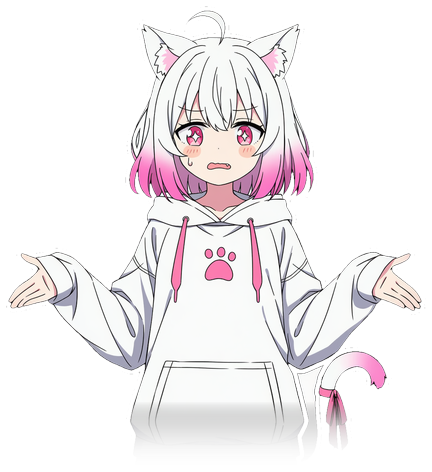
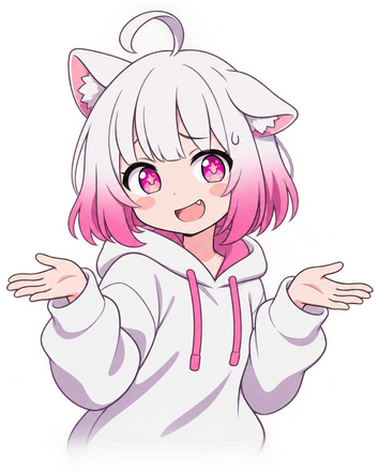
feat(mascot): 新增 sleep/shrug/thumbs/lookup 动图并优化空状态与识别工具栏布局

diff --git a/src/renderer/src/features/reverse/ReverseView.vue b/src/renderer/src/features/reverse/ReverseView.vue
@@ -516,6 +516,13 @@ async function source(url: string) {
       aria-label="参考图与识别结果"
     >
       <section class="reverse-input">
+        <input
+          ref="picker"
+          type="file"
+          accept="image/png,image/jpeg,image/webp"
+          hidden
+          @change="picked"
+        />
         <div class="reverse-panel-head">
           <span>参考图</span
           ><span
@@ -591,26 +598,9 @@ async function source(url: string) {
         class="reverse-adjustments"
       >
         <div
-          v-show="stage === 'recognition'"
+          v-if="image || running || actionBusy || modelOperation || recognitionMessage"
           class="reverse-toolbar"
         >
-          <input
-            ref="picker"
-            type="file"
-            accept="image/png,image/jpeg,image/webp"
-            hidden
-            @change="picked"
-          />
-          <button
-            class="btn small"
-            :disabled="busy"
-            @click="picker?.click()"
-          >
-            <Icon
-              name="image"
-              :size="15"
-            />{{ image ? '更换图片' : '选择图片' }}
-          </button>
           <button
             v-if="image"
             class="btn small primary reverse-run"
@@ -636,22 +626,6 @@ async function source(url: string) {
             role="status"
             >{{ recognitionMessage }}</span
           >
-          <button
-            class="btn small ghost reverse-model-toggle"
-            :disabled="trialsState.running"
-            aria-label="模型管理"
-            :title="selectedReady ? '本地模型已就绪' : '管理本地模型'"
-            @click="modelsOpen = true"
-          >
-            <span
-              class="model-dot"
-              :class="{ ready: selectedReady }"
-            ></span
-            >模型<Icon
-              name="sliders"
-              :size="14"
-            />
-          </button>
         </div>
 
         <div
@@ -674,6 +648,22 @@ async function source(url: string) {
               :disabled="busy || (selection.length === 1 && selection.includes(option[0]))"
             />{{ option[1] }}
           </label>
+          <button
+            class="btn small ghost reverse-model-toggle"
+            :disabled="trialsState.running"
+            aria-label="模型管理"
+            :title="selectedReady ? '本地模型已就绪' : '管理本地模型'"
+            @click="modelsOpen = true"
+          >
+            <span
+              class="model-dot"
+              :class="{ ready: selectedReady }"
+            ></span
+            >模型<Icon
+              name="sliders"
+              :size="14"
+            />
+          </button>
         </div>
         <div
           v-if="stage === 'recognition' && status && !selectedReady && !modelOperation"
@@ -745,7 +735,7 @@ async function source(url: string) {
         >
           <Mascot
             mood="search"
-            :motion="running ? 'loop' : 'once'"
+            motion="loop"
             :size="running ? 150 : 136"
           />
           <strong>{{ running ? '正在识别参考图…' : '等待识别' }}</strong>

diff --git a/src/renderer/src/shared/ui/Mascot.vue b/src/renderer/src/shared/ui/Mascot.vue
@@ -21,10 +21,15 @@ import ok from '../../assets/mascot/ok.png'
 import check from '../../assets/mascot/check.png'
 import crystal from '../../assets/mascot/crystal.png'
 import ready from '../../assets/mascot/ready.png'
+import lookup from '../../assets/mascot/lookup.png'
 import readyMotion from '../../assets/mascot/motion/ready.webp'
 import readingMotion from '../../assets/mascot/motion/reading.webp'
 import searchMotion from '../../assets/mascot/motion/search.webp'
 import paintMotion from '../../assets/mascot/motion/paint.webp'
+import sleepMotion from '../../assets/mascot/motion/sleep.webp'
+import shrugMotion from '../../assets/mascot/motion/shrug.webp'
+import thumbsMotion from '../../assets/mascot/motion/thumbs.webp'
+import lookupMotion from '../../assets/mascot/motion/lookup.webp'
 
 const SRC = {
   idle,
@@ -48,6 +53,7 @@ const SRC = {
   check,
   crystal,
   ready,
+  lookup,
 }
 
 /**
@@ -59,6 +65,10 @@ const MOTION: Partial<Record<keyof typeof SRC, { src: string; durationMs: number
   reading: { src: readingMotion, durationMs: 5082 },
   search: { src: searchMotion, durationMs: 5082 },
   paint: { src: paintMotion, durationMs: 4914 },
+  sleep: { src: sleepMotion, durationMs: 5042 },
+  shrug: { src: shrugMotion, durationMs: 5042 },
+  thumbs: { src: thumbsMotion, durationMs: 5042 },
+  lookup: { src: lookupMotion, durationMs: 5042 },
 }
 
 export type MascotMood = keyof typeof SRC

diff --git a/src/renderer/src/features/gallery/GalleryView.vue b/src/renderer/src/features/gallery/GalleryView.vue
@@ -12,6 +12,7 @@ import { toast, reportError } from '../../shared/lib/notifications'
 import { cleanErr } from '../../shared/lib/format'
 import { importGenerationRequest } from '../prompts/actions'
 import Icon from '../../shared/ui/Icon.vue'
+import Mascot from '../../shared/ui/Mascot.vue'
 import ImageViewer from '../../shared/ui/ImageViewer.vue'
 import ThemeSelect from '../../shared/ui/ThemeSelect.vue'
 import ConfirmDialog from '../../shared/ui/ConfirmDialog.vue'
@@ -280,12 +281,19 @@ function step(delta: number) {
       </p>
       <div class="library-content">
         <div class="library-browser scroll">
-          <p
-            v-if="!filtered.length"
+          <div
+            v-if="!filtered.length && !error"
             class="library-empty"
           >
-            {{ loading ? '正在读取图库…' : '这个图集还没有图片' }}
-          </p>
+            <Mascot
+              v-if="!loading"
+              :mood="retention === 'all' ? 'sleep' : 'shrug'"
+              :size="120"
+            />
+            <p v-if="loading">正在读取图库…</p>
+            <p v-else-if="retention !== 'all'">没有符合筛选条件的图片</p>
+            <p v-else>这个图集还没有图片</p>
+          </div>
           <div class="library-grid">
             <button
               v-for="image in visible"

diff --git a/src/renderer/src/features/tags/SearchView.vue b/src/renderer/src/features/tags/SearchView.vue
@@ -148,6 +148,7 @@ watch(
       >
         <Mascot
           mood="shrug"
+          motion="loop"
           :size="220"
         />
         <p>没找到「{{ query }}」，换个说法试试？</p>
@@ -157,7 +158,8 @@ watch(
         class="empty"
       >
         <Mascot
-          :mood="tagState.db?.loaded ? 'search' : 'point'"
+          :mood="tagState.db?.loaded ? 'lookup' : 'point'"
+          motion="loop"
           :size="220"
         />
         <p>

diff --git a/src/renderer/src/features/favorites/FavoritesView.vue b/src/renderer/src/features/favorites/FavoritesView.vue
@@ -820,7 +820,7 @@ onBeforeUnmount(() => window.removeEventListener('keydown', onKey))
         class="favorites-empty"
       >
         <Mascot
-          :mood="favorites.items.length ? 'search' : 'sleep'"
+          :mood="favorites.items.length ? 'shrug' : 'sleep'"
           :size="120"
         />
         <h2>{{ favorites.items.length ? '没有匹配的收藏' : '把喜欢的效果留在这里' }}</h2>

diff --git a/scripts/process-mascot-motion.py b/scripts/process-mascot-motion.py
@@ -22,7 +22,7 @@ NAMES = ["ready", "reading", "search", "paint"]
 ALPHA_THRESHOLD = 8
 PADDING_PX = 4
 STILL_HEIGHT_PX = 472
-QUALITY = 90
+QUALITY = 96
 
 
 def union_box(frames):
@@ -52,8 +52,12 @@ def union_box(frames):
 
 def process(source_dir: Path, name: str) -> None:
     animation = Image.open(source_dir / f"{name}-512.webp")
-    frames = [frame.convert("RGBA").copy() for frame in ImageSequence.Iterator(animation)]
-    durations = [frame.info.get("duration", 42) for frame in ImageSequence.Iterator(animation)]
+    frames = []
+    durations = []
+    for frame in ImageSequence.Iterator(animation):
+        frame.load()  # WebP 的帧时长在解码后才更新，不能单独遍历 info。
+        frames.append(frame.convert("RGBA").copy())
+        durations.append(frame.info.get("duration", 42))
     box = union_box(frames)
 
     kept = [frame.crop(box) for frame in frames]

diff --git a/scripts/process-mascot.py b/scripts/process-mascot.py
@@ -127,7 +127,7 @@ def make_icon(head: Image.Image, size: int = 512) -> Image.Image:
 
 
 # 这些场景已改用动图素材，静态图由 scripts/process-mascot-motion.py 按动图裁切生成，批量处理时跳过，避免覆盖
-MOTION_NAMES = {"ready", "reading", "search", "paint"}
+MOTION_NAMES = {"ready", "reading", "search", "paint", "sleep", "shrug", "thumbs", "lookup"}
 names = [f[:-4] for f in os.listdir(SRC) if f.endswith(".png") and f[:-4] not in MOTION_NAMES]
 for name in sys.argv[1:] or names:
     cut = cut_out(Image.open(os.path.join(SRC, name + ".png")))
